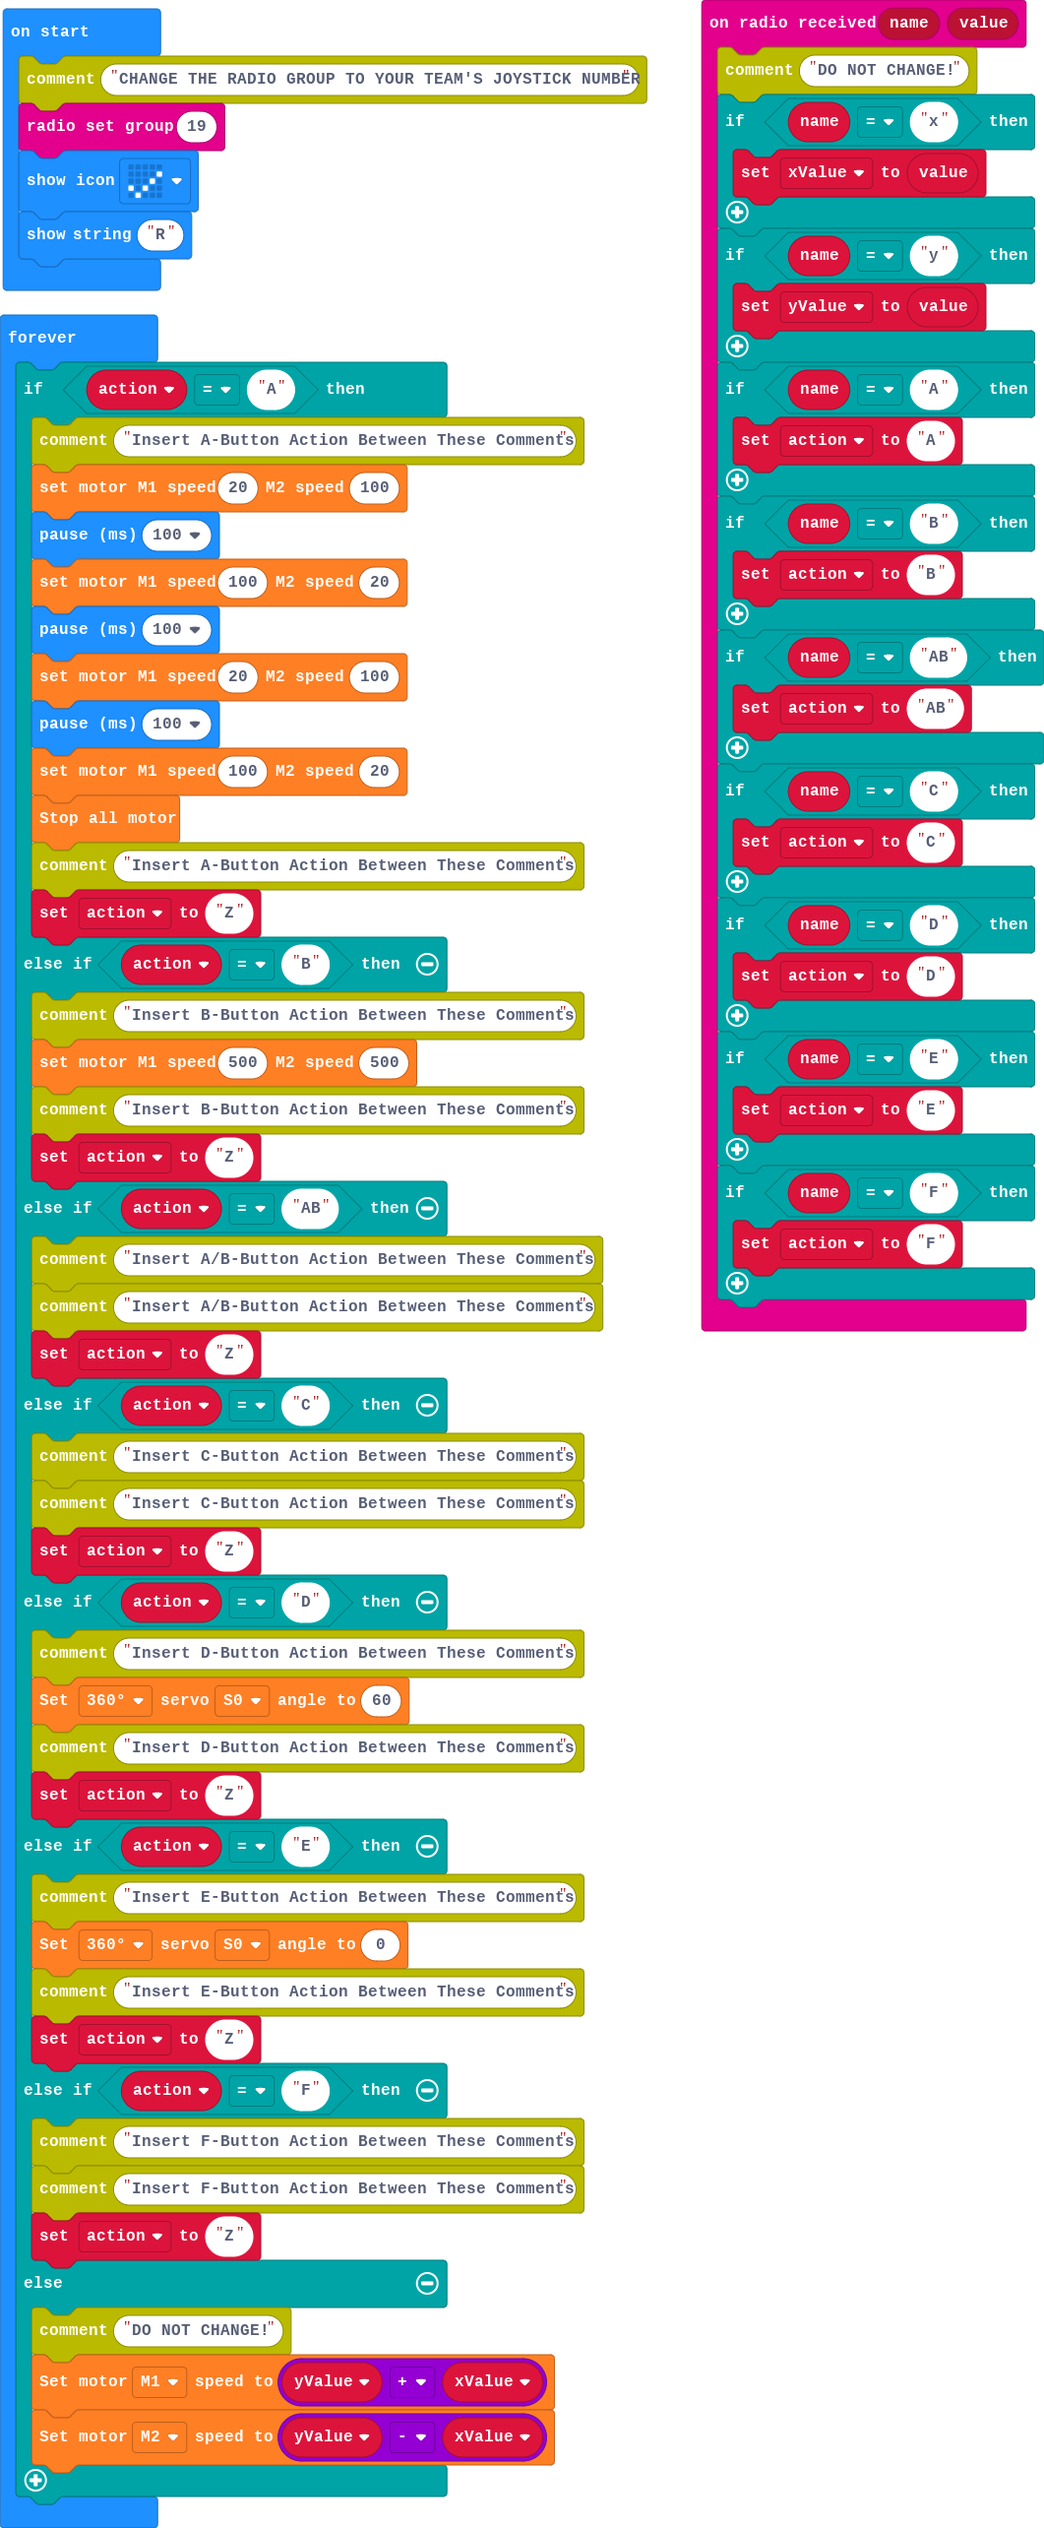
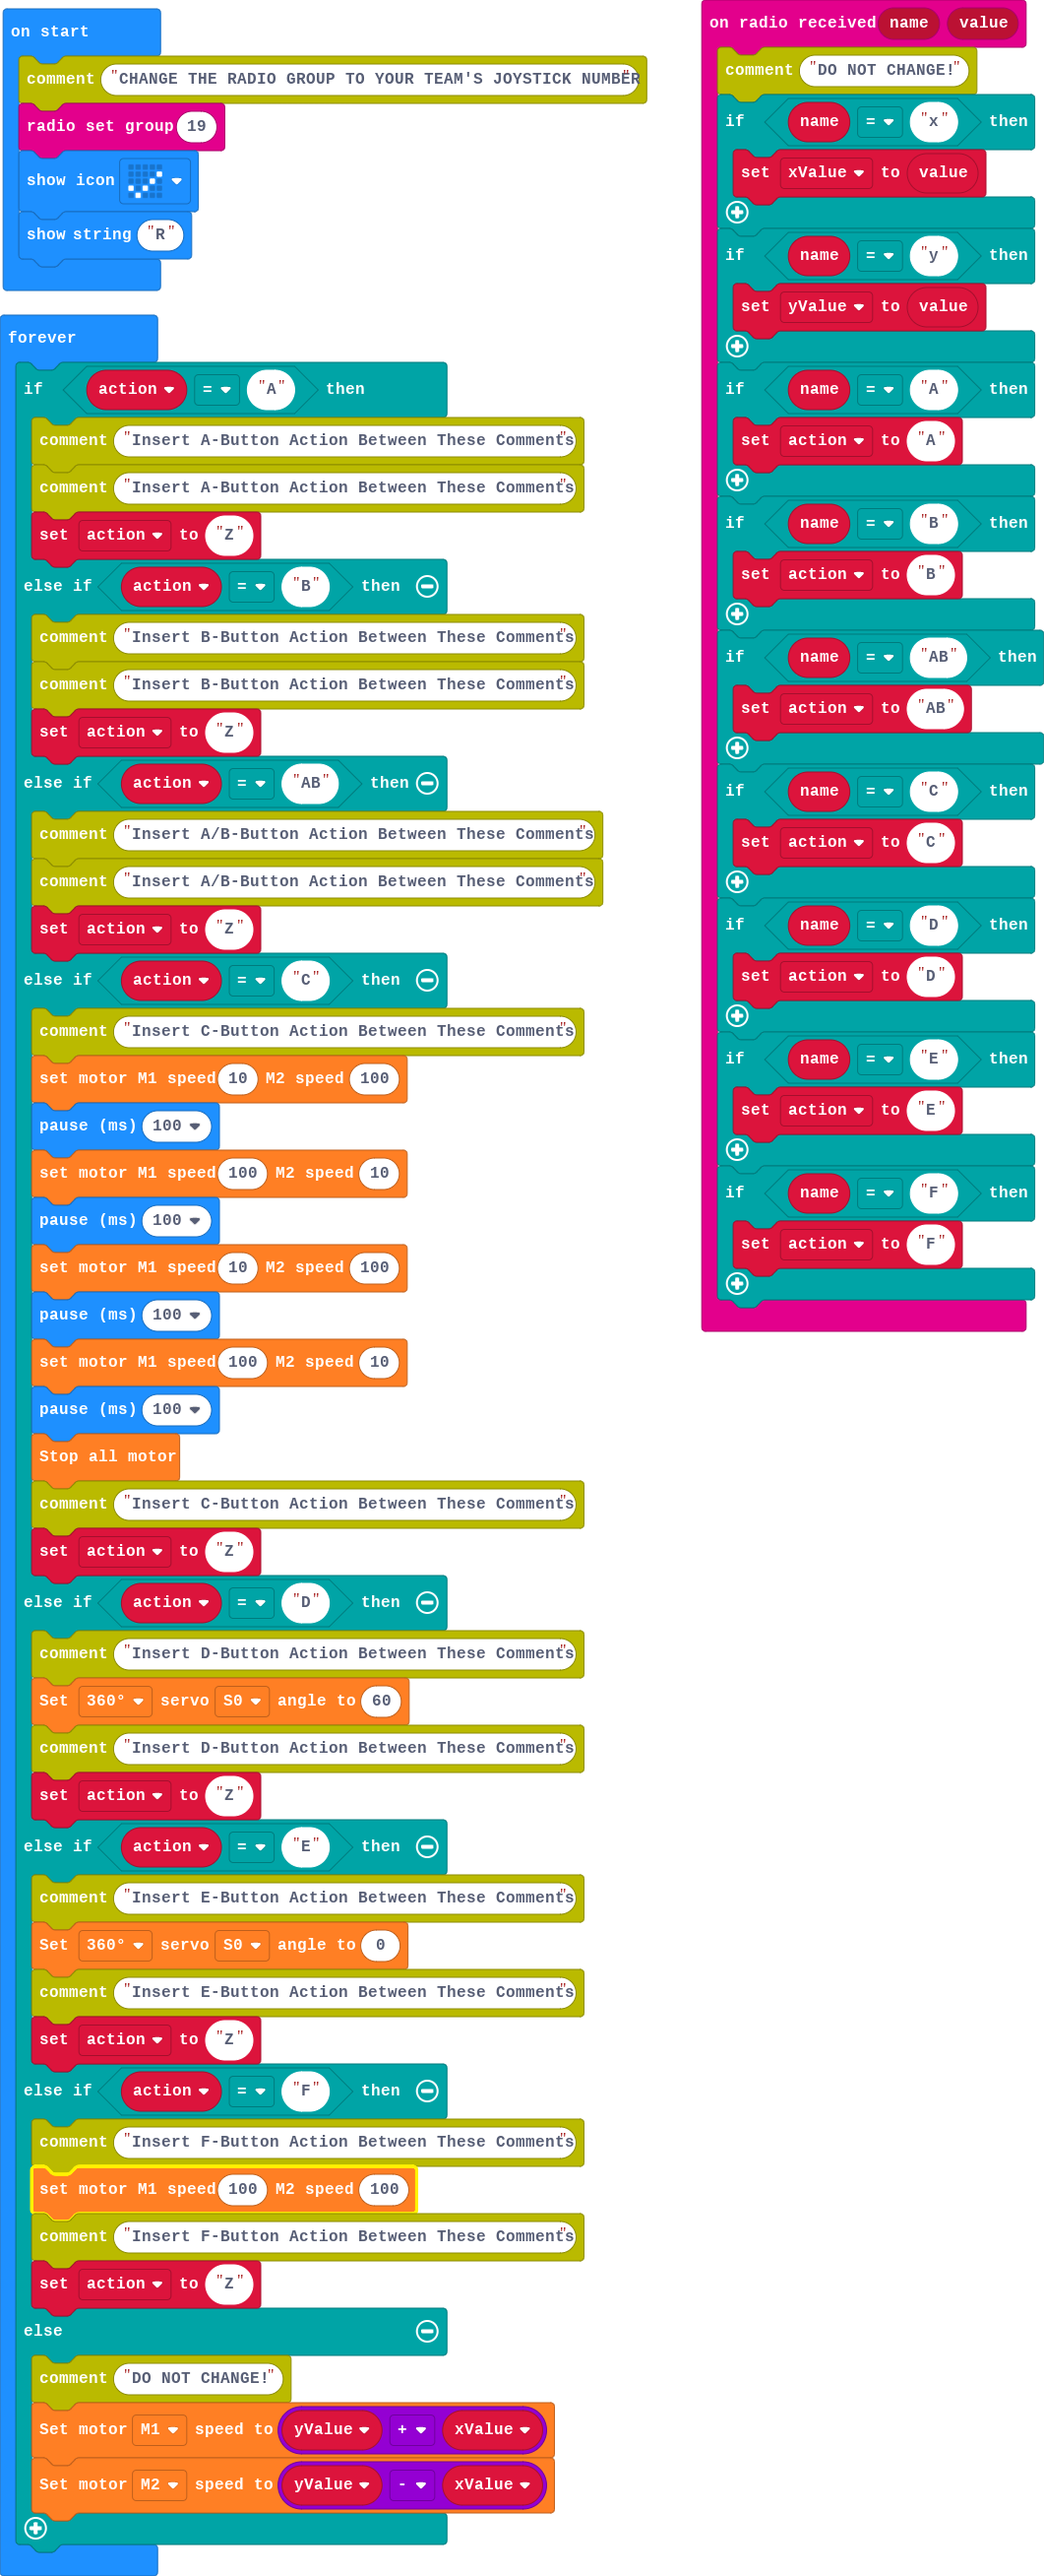
Update main.blocks, main.ts

diff --git a/main.ts b/main.ts
@@ -38,19 +38,10 @@ basic.showString("R")
 basic.forever(function () {
     if (action == "A") {
         comment.comment("Insert A-Button Action Between These Comments")
-        wuKong.setAllMotor(20, 100)
-        basic.pause(100)
-        wuKong.setAllMotor(100, 20)
-        basic.pause(100)
-        wuKong.setAllMotor(20, 100)
-        basic.pause(100)
-        wuKong.setAllMotor(100, 20)
-        wuKong.stopAllMotor()
         comment.comment("Insert A-Button Action Between These Comments")
         action = "Z"
     } else if (action == "B") {
         comment.comment("Insert B-Button Action Between These Comments")
-        wuKong.setAllMotor(500, 500)
         comment.comment("Insert B-Button Action Between These Comments")
         action = "Z"
     } else if (action == "AB") {
@@ -59,6 +50,15 @@ basic.forever(function () {
         action = "Z"
     } else if (action == "C") {
         comment.comment("Insert C-Button Action Between These Comments")
+        wuKong.setAllMotor(10, 100)
+        basic.pause(100)
+        wuKong.setAllMotor(100, 10)
+        basic.pause(100)
+        wuKong.setAllMotor(10, 100)
+        basic.pause(100)
+        wuKong.setAllMotor(100, 10)
+        basic.pause(100)
+        wuKong.stopAllMotor()
         comment.comment("Insert C-Button Action Between These Comments")
         action = "Z"
     } else if (action == "D") {
@@ -73,6 +73,7 @@ basic.forever(function () {
         action = "Z"
     } else if (action == "F") {
         comment.comment("Insert F-Button Action Between These Comments")
+        wuKong.setAllMotor(100, 100)
         comment.comment("Insert F-Button Action Between These Comments")
         action = "Z"
     } else {
